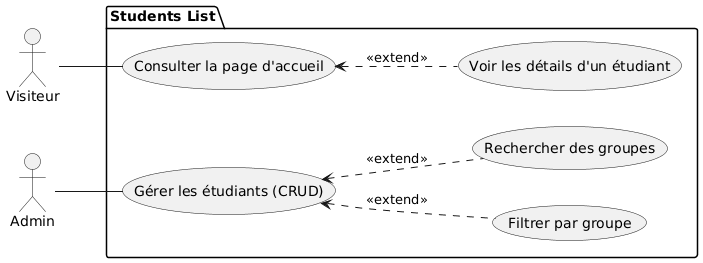
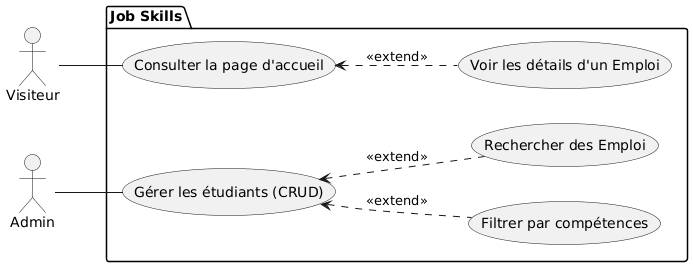
DONE

diff --git a/README.md b/README.md
@@ -20,6 +20,8 @@ paginate: true
 
 # Choix du Sujet
 
+
+- job_skill
 ## Students List
 
 ---
@@ -60,4 +62,4 @@ paginate: true
 
  # Diagramme de classe
 
- <img src="./images/diagramme-class.png" alt="2tup" width="10000"/>
+ <img src="./images/diagramme-class.png" alt="2tup" width="150"/>
